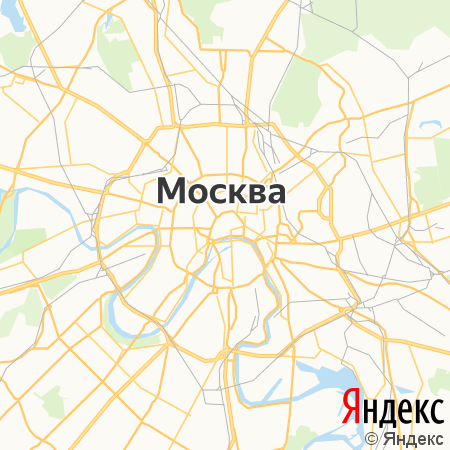
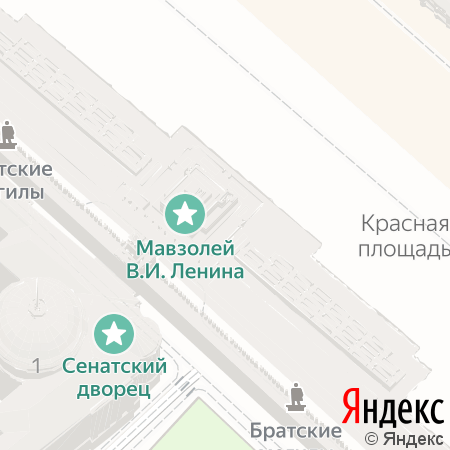
task-2 completed

diff --git a/main.py b/main.py
@@ -22,7 +22,19 @@ class MyWidget(QMainWindow):
 
         self.map_file = "map.png"
 
-        self.make_map_img()
+
+
+        self.zoom = 5
+
+
+
+        self.change_img_view(zoom=self.zoom)
+
+        self.pgup.clicked.connect(lambda: self.scale('up'))
+        self.pgdown.clicked.connect(lambda: self.scale('down'))
+
+    def change_img_view(self, **kwargs):
+        self.make_map_img(**kwargs)
 
         self.image = QPixmap.fromImage(QImage(self.map_file))
 
@@ -32,12 +44,12 @@ class MyWidget(QMainWindow):
         self.map_viewer.setScene(self.map)
 
     
-    def make_map_img(self, coords=[37.620070, 55.753630], type='map', size=[450, 450], scale_level=10, scale=2, pt=None, pl=None, lang=None):
+    def make_map_img(self, coords=[37.620070, 55.753630], type='map', size=[450, 450], zoom=10, scale=2, pt=None, pl=None, lang=None):
         kwargs = locals()
         kwargs.pop('self')
         # print(kwargs)
         items = list(map(lambda x: [x, kwargs[x]], kwargs))
-        items = list(filter(lambda x: x[1], items))
+        # items = list(filter(lambda x: x[1], items))
         # print(items)
         items = dict(map(lambda x: [x[0], ','.join(list(map(lambda y: str(y), x[1]))) 
                          if x[1].__class__.__name__ == 'list'
@@ -53,7 +65,7 @@ class MyWidget(QMainWindow):
 
         url = [f'https://static-maps.yandex.ru/1.x/?ll={items["coords"]}', 
               f'size={items["size"]}',
-              f'z={items["scale_level"]}',
+              f'z={items["zoom"]}',
               f'l={items["type"]}',
               f'scale={items["scale"]}']
         
@@ -65,12 +77,24 @@ class MyWidget(QMainWindow):
         url = '&'.join(url)
         print(url)
         response = requests.get(url)
+        print(response)
 
         # print(response.content)
         
         with open(self.map_file, "wb") as file:
             file.write(response.content)
         # self.pushButton.clicked.connect(self.run)
+
+    def scale(self, way):
+        if way == 'up' and self.zoom < 17:
+            self.zoom += 1
+            # print(self.zoom)
+            self.change_img_view(zoom=self.zoom)
+        elif way == 'down' and self.zoom > 0:
+           self.zoom -= 1
+           # print(s1elf.zoom)
+           self.change_img_view(zoom=self.zoom)
+
 
 
  
